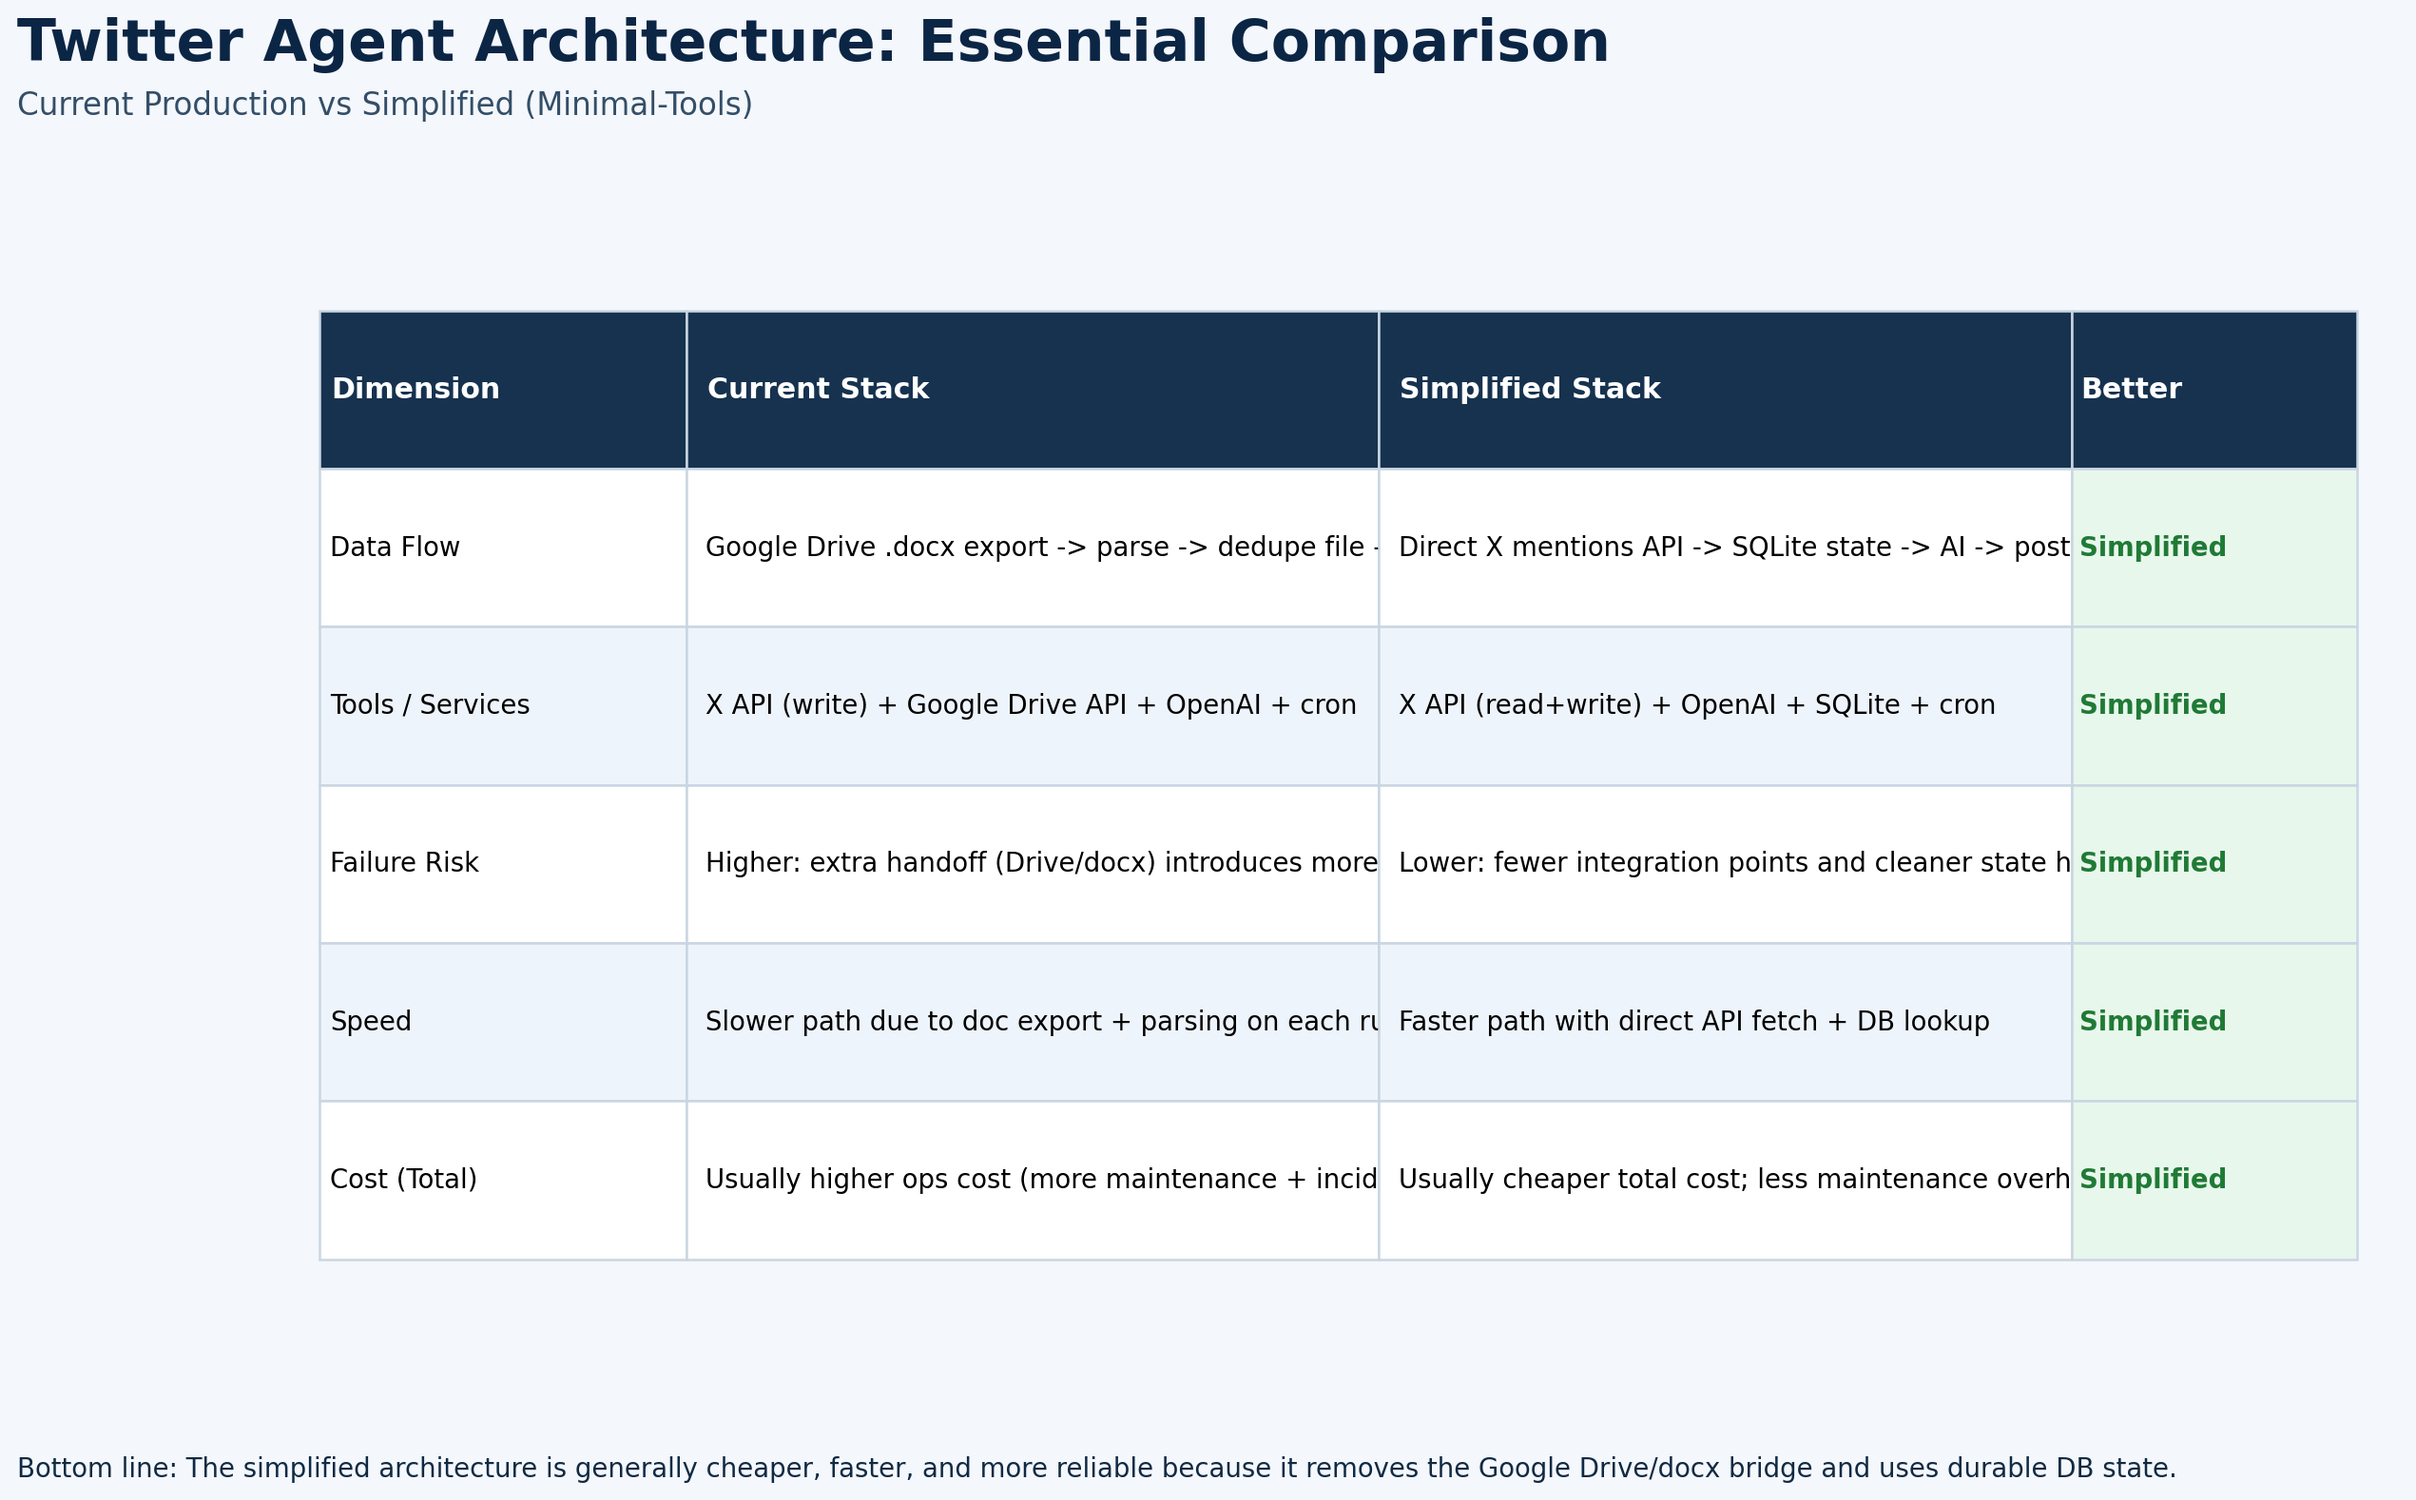
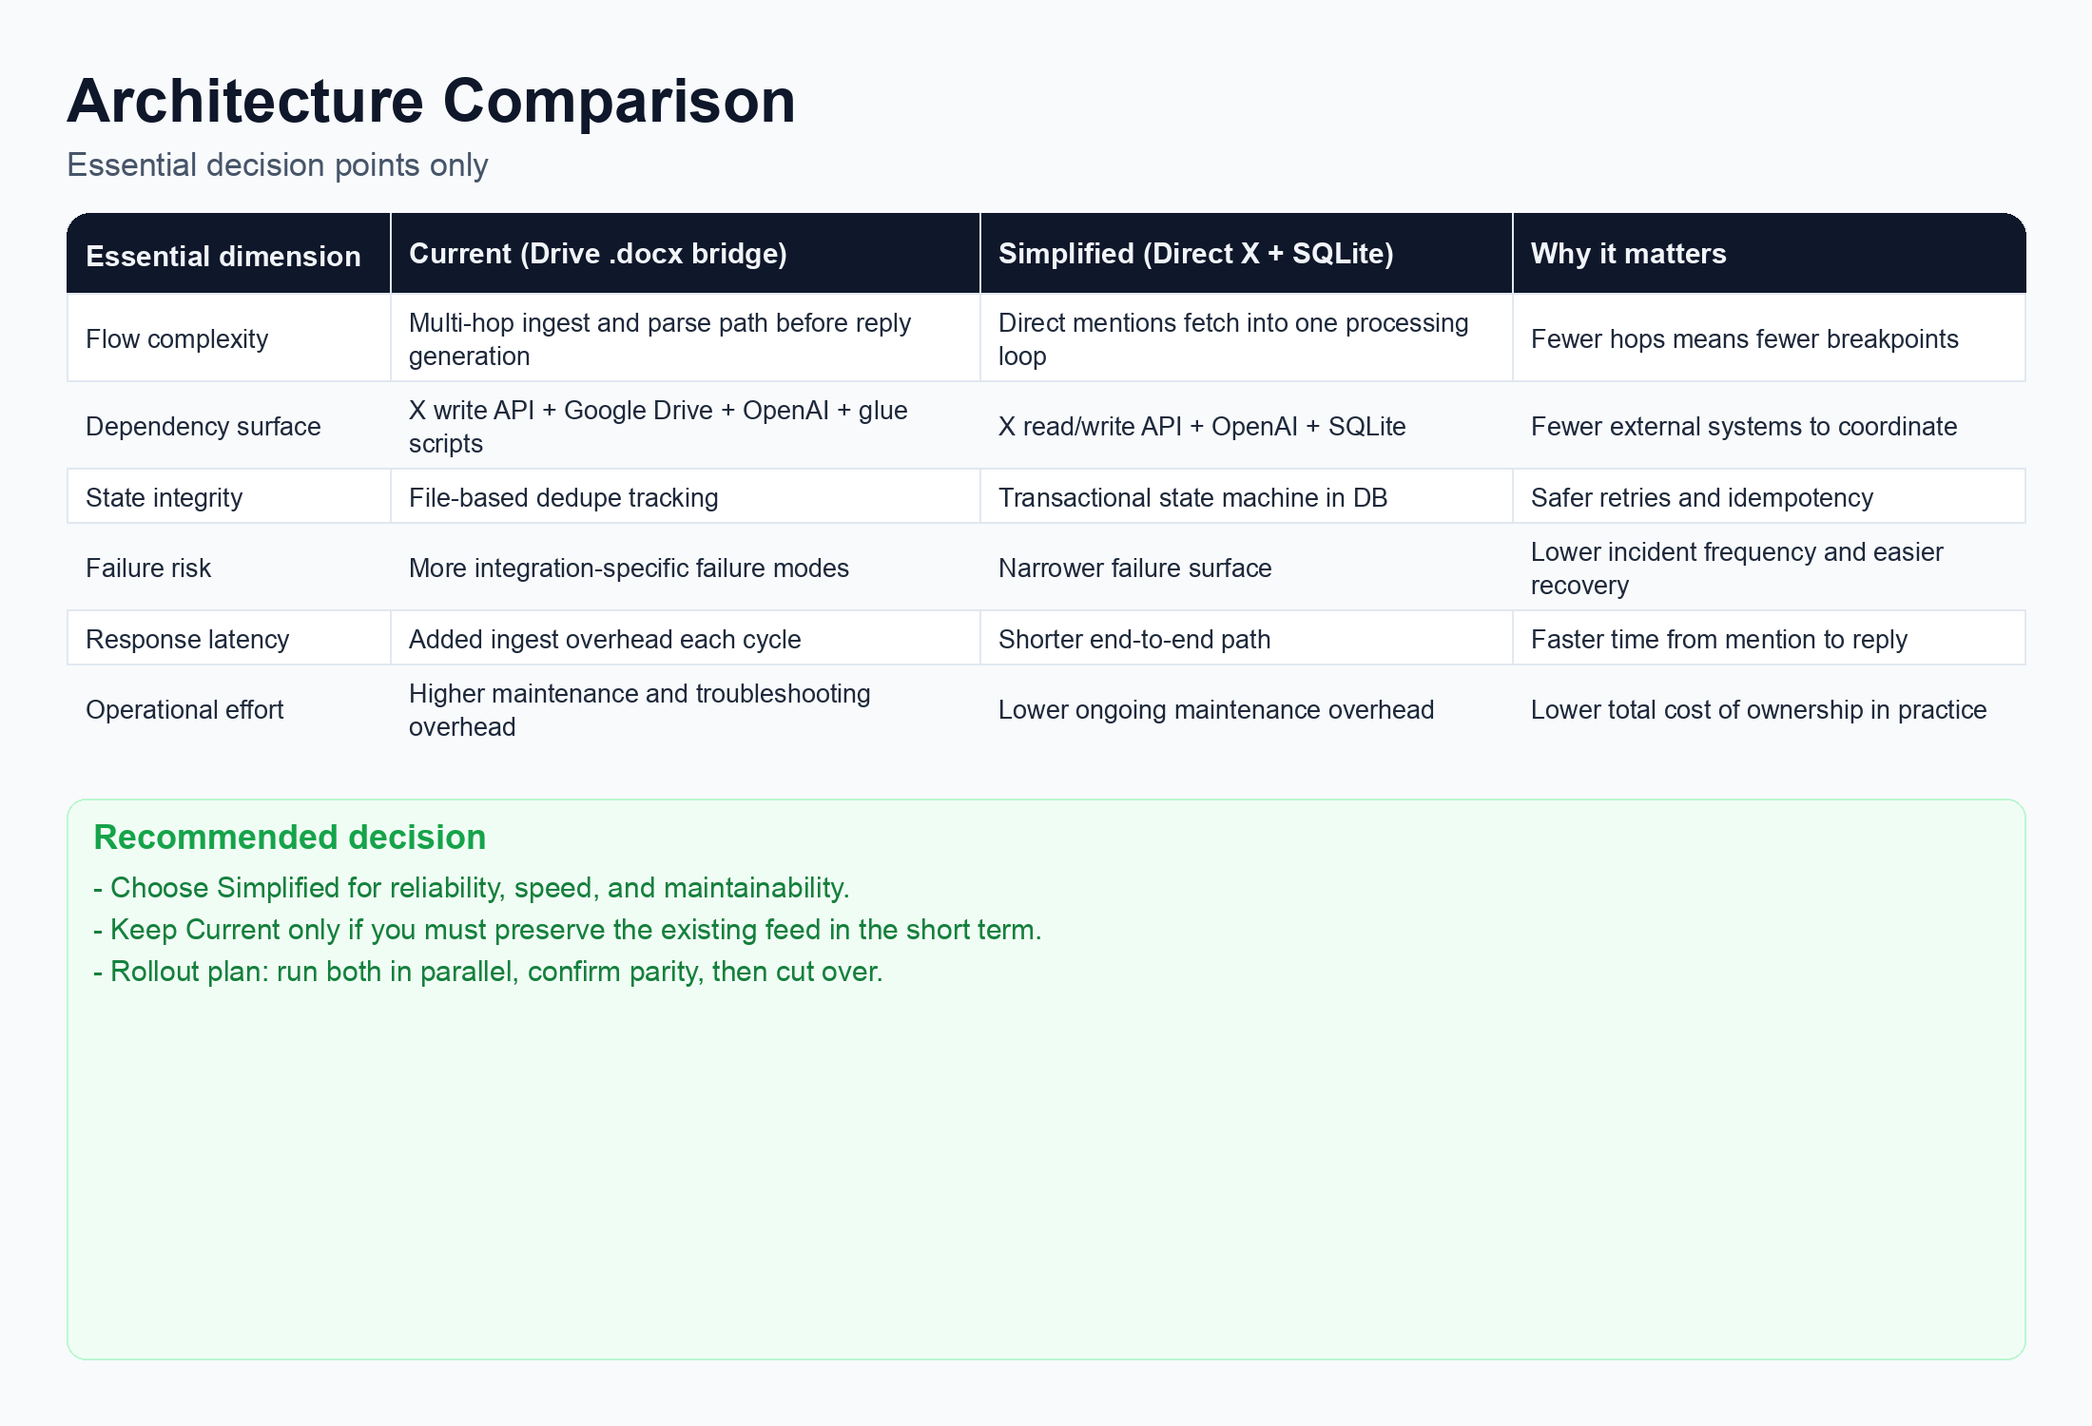
ARCH DIAGRAMS

diff --git a/compare-architecture.md b/compare-architecture.md
@@ -1,0 +1,16 @@
+## Architecture Decision Snapshot
+
+| Essential dimension | Current (Drive `.docx` bridge) | Simplified (Direct X + SQLite) | Why it matters |
+|---|---|---|---|
+| Flow complexity | Multi-hop ingest and parse path before reply generation | Direct mentions fetch into one processing loop | Fewer hops means fewer breakpoints |
+| Dependency surface | X write API + Google Drive + OpenAI + glue scripts | X read/write API + OpenAI + SQLite | Fewer external systems to coordinate |
+| State integrity | File-based dedupe tracking | Transactional state machine in DB | Safer retries and idempotency |
+| Failure risk | More integration-specific failure modes | Narrower failure surface | Lower incident frequency and easier recovery |
+| Response latency | Added ingest overhead each cycle | Shorter end-to-end path | Faster time from mention to reply |
+| Operational effort | Higher maintenance and troubleshooting overhead | Lower ongoing maintenance overhead | Lower total cost of ownership in practice |
+
+## Decision
+
+- Choose **Simplified** if your goal is reliability, speed, and maintainability.
+- Keep **Current** only if you must preserve the existing upstream feed short-term.
+- Recommended rollout: run both paths in parallel, validate parity, then cut over.
